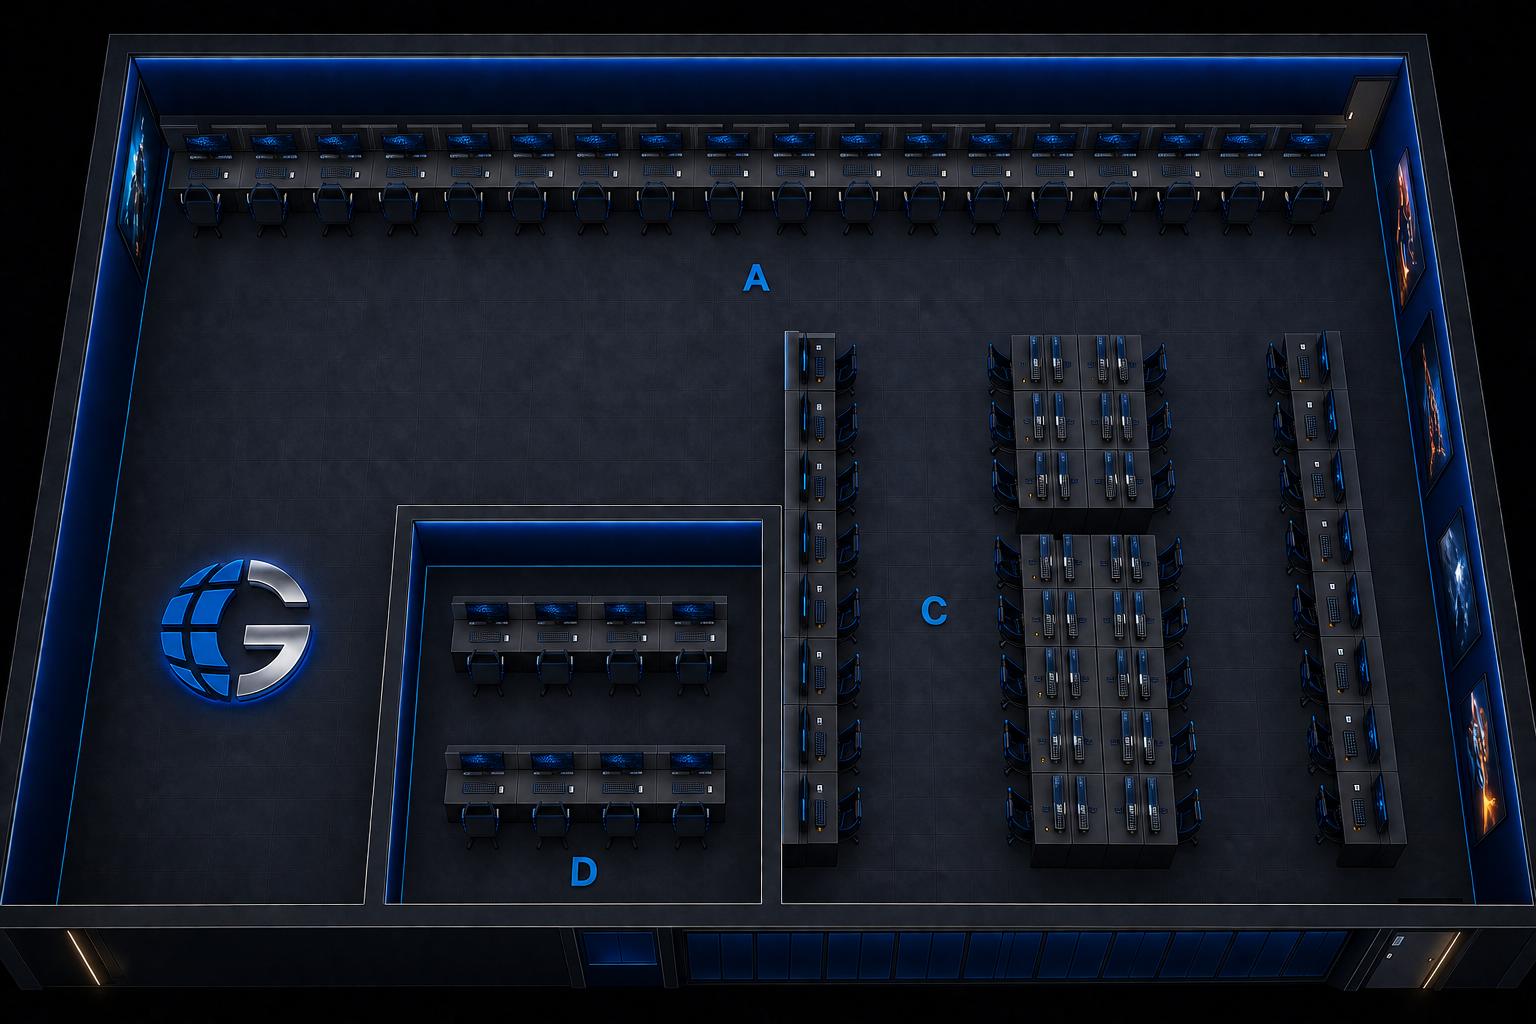
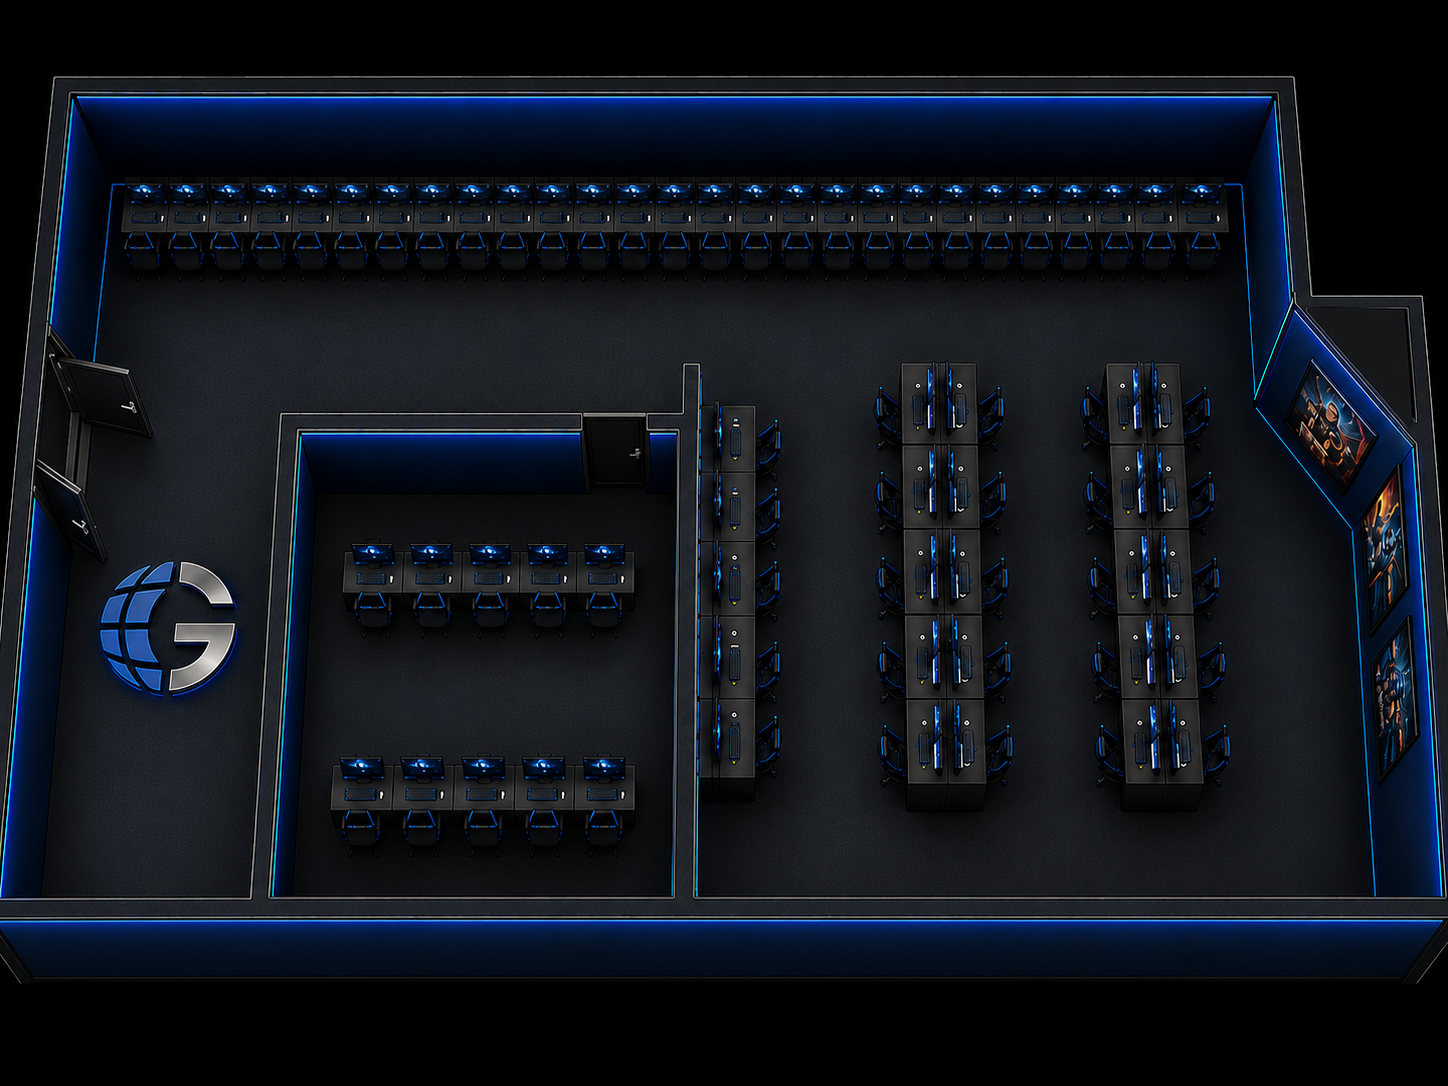
mapa y video

diff --git a/globalgames/index.html b/globalgames/index.html
@@ -49,35 +49,18 @@
             <img class="hero__brand-logo" src="gg-logo.png" alt="GG branding" />
             <div class="hero__brand-copy">
               <strong>Global Games</strong>
-              <span>El punto de encuentro para gaming premium y esports en Lima</span>
+              <span>Infraestructura premium para gaming y capacitación*</span>
             </div>
           </div>
           <p class="eyebrow" data-i18n="hero.eyebrow">Lan Center</p>
           <h1 data-i18n="hero.title">Global<br /><span>Games</span></h1>
-          <p class="hero__lead" data-i18n="hero.lead">Disfruta PCs de alto rendimiento, streaming y competencias con ambiente cómodo, conexión rápida y servicio especializado para cada partida.</p>
+          <p class="hero__lead" data-i18n="hero.lead">Gaming premium en Lima. Espacios cómodos, comunidad competitiva y una experiencia diseñada para tu comodidad.</p>
           <div class="hero__actions">
             <a class="button button--primary" href="#location" data-i18n="hero.action">Ver ubicación →</a>
           </div>
           <div class="hero__meta">
             <div><strong data-i18n="hero.locationLabel">Ubicación</strong><span data-i18n="hero.locationText">Lima, Perú</span></div>
             <div><strong data-i18n="hero.hoursLabel">Horario</strong><span data-i18n="hero.hoursText">Todos los días de 10:00 a 23:00</span></div>
-          </div>
-          <div class="hero__social" aria-label="Redes Global Games">
-            <a class="social-square" href="https://www.facebook.com/globalgamespe" target="_blank" rel="noopener noreferrer" title="Facebook">
-              <svg viewBox="0 0 24 24" aria-hidden="true" focusable="false">
-                <path fill="currentColor" d="M22 12a10 10 0 1 0-11.5 9.9v-7H8.5v-3h2V9.5c0-2 1.2-3.1 3-3.1.9 0 1.8.2 1.8.2v2h-1c-1 0-1.3.6-1.3 1.2V12h2.2l-.4 3h-1.8v7A10 10 0 0 0 22 12Z" />
-              </svg>
-            </a>
-            <a class="social-square" href="https://www.instagram.com/globalgamespe" target="_blank" rel="noopener noreferrer" title="Instagram">
-              <svg viewBox="0 0 24 24" aria-hidden="true" focusable="false">
-                <path fill="currentColor" d="M7.75 2h8.5A5.75 5.75 0 0 1 22 7.75v8.5A5.75 5.75 0 0 1 16.25 22h-8.5A5.75 5.75 0 0 1 2 16.25v-8.5A5.75 5.75 0 0 1 7.75 2Zm0 1.5A4.25 4.25 0 0 0 3.5 7.75v8.5A4.25 4.25 0 0 0 7.75 20.5h8.5A4.25 4.25 0 0 0 20.5 16.25v-8.5A4.25 4.25 0 0 0 16.25 3.5h-8.5Zm8.5 2.25a.75.75 0 1 1 0 1.5.75.75 0 0 1 0-1.5Zm-4.25 1.25a5.75 5.75 0 1 1 0 11.5 5.75 5.75 0 0 1 0-11.5Zm0 1.5a4.25 4.25 0 1 0 0 8.5 4.25 4.25 0 0 0 0-8.5Z" />
-              </svg>
-            </a>
-            <a class="social-square" href="https://www.tiktok.com/@globalgamespe" target="_blank" rel="noopener noreferrer" title="TikTok">
-              <svg viewBox="0 0 24 24" aria-hidden="true" focusable="false">
-                <path fill="currentColor" d="M17.5 4.5h-1.1c0 2.4 1.8 4.3 4.2 4.3v1.1c-2.8 0-5.1-2.3-5.1-5.1V4.5Zm-4.5.2a4.8 4.8 0 0 0-4.8 4.8A4.8 4.8 0 0 0 13 14.3v-1.1a3.7 3.7 0 1 1 0-7.4V4.7Zm.1 5.4A2.6 2.6 0 1 0 9.1 7.5v5.9a2.6 2.6 0 1 0 4.5-1.3V10.1Z" />
-              </svg>
-            </a>
           </div>
         </div>
       </section>
@@ -98,8 +81,8 @@
             </ul>
           </div>
           <div class="distribution-card__media">
-            <a href="https://www.youtube.com/watch?v=ZVQiLwwB1bg" target="_blank" rel="noopener noreferrer">
-              <img src="mapa.png" alt="Video de ubicación de Global Games" />
+            <a href="https://youtu.be/RL0ksMrCV50" target="_blank" rel="noopener noreferrer">
+              <img src="mapa.png" alt="Video de Global Games" />
             </a>
           </div>
         </div>
@@ -203,7 +186,6 @@
           <h2 data-i18n="games.title">Más de 100+ juegos disponibles</h2>
           <p class="section-heading__meta" data-i18n="games.meta">Busca tus títulos favoritos y descubre nuestras plataformas disponibles.</p>
         </div>
-        <div id="games-featured" class="games-featured" aria-label="Juegos principales"></div>
         <div class="games-search-panel">
           <label class="games-search" for="game-search-input">
             <span>Buscar juego</span>
@@ -211,8 +193,8 @@
           </label>
           <p class="games-search__hint">Plataformas: Steam, BattleNet, EpicGames, RioGamer y más</p>
           <div id="platform-badges" class="platform-badges" aria-hidden="false"></div>
+          <div id="games-results" class="games-grid" aria-live="polite"></div>
         </div>
-        <div id="games-results" class="games-grid" aria-live="polite"></div>
       </section>
 
      
@@ -279,16 +261,16 @@
         <a href="mailto:[email redacted]">[email redacted]</a>
         <a href="tel:[phone redacted]">[phone redacted]</a>
         <div class="social-links" aria-label="Redes sociales Global Games">
-          <a class="social-link social-link--facebook" href="https://www.facebook.com/globalgamespe" target="_blank" rel="noopener noreferrer" title="Facebook">
+          <a class="social-link social-link--facebook" href="https://www.facebook.com" target="_blank" rel="noopener noreferrer" title="Facebook">
             <span class="social-link__icon">f</span>
             <span>Facebook</span>
           </a>
-          <a class="social-link social-link--instagram" href="https://www.instagram.com/globalgamespe" target="_blank" rel="noopener noreferrer" title="Instagram">
-            <span class="social-link__icon">↗</span>
+          <a class="social-link social-link--instagram" href="https://www.instagram.com" target="_blank" rel="noopener noreferrer" title="Instagram">
+            <span class="social-link__icon">&#x1F4F7;</span>
             <span>Instagram</span>
           </a>
-          <a class="social-link social-link--tiktok" href="https://www.tiktok.com/@globalgamespe" target="_blank" rel="noopener noreferrer" title="TikTok">
-            <span class="social-link__icon">↗</span>
+          <a class="social-link social-link--tiktok" href="https://www.tiktok.com" target="_blank" rel="noopener noreferrer" title="TikTok">
+            <span class="social-link__icon">&#x1F3B6;</span>
             <span>TikTok</span>
           </a>
         </div>